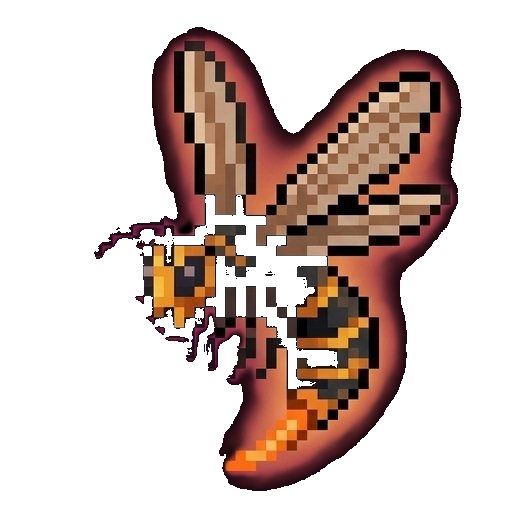
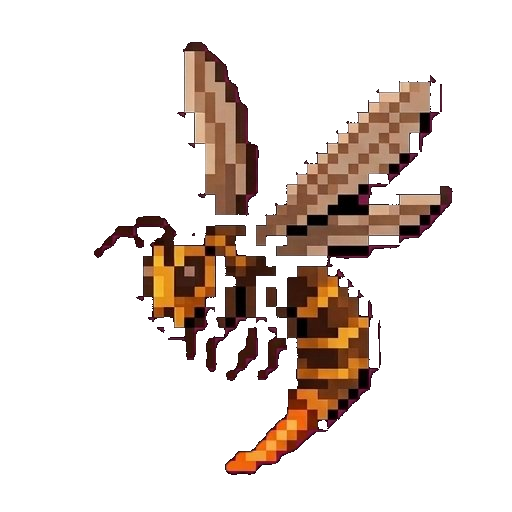
Updated the game logic, with a better Hornet movement

Changed region(s): [[0.2188, 0.0312, 0.9062, 0.9688], [0.1875, 0.4688, 0.2188, 0.5]]

diff --git a/game_output/src/entity/HornetEnemy.java b/game_output/src/entity/HornetEnemy.java
@@ -9,181 +9,166 @@ import java.awt.image.BufferedImage;
 import main.GamePanel;
 import utility.LoadImage;
 
-/**
- * A tracking hornet with:
- *  - 4 directional sprites (left/right/up/down), 12 frames each
- *  - float speed for subtle acceleration
- *  - 3 states: PATROL (circles spawn) → ALERTED (! flash) → CHASE (hunt player)
- *  - Loses interest when player escapes beyond LOSE_RANGE tiles
- */
 public class HornetEnemy extends Entity {
 
     GamePanel gp;
 
-    // ── Sprite cache (static — shared across all hornet instances) ────────
-    private static BufferedImage[] framesRight = null;
-    private static BufferedImage[] framesLeft  = null;
-    private static BufferedImage[] framesUp    = null;
-    private static BufferedImage[] framesDown  = null;
-    private static final int FRAME_COUNT = 12;
+    // ── 8-direction sprite cache (static — loaded once) ───────────────────
+    private static BufferedImage[] frRight = null;
+    private static BufferedImage[] frLeft  = null;
+    private static final int FC = 12;
 
-    // ── Float speed override (Entity.Speed is int, we shadow it) ─────────
+    // ── Float speed ───────────────────────────────────────────────────────
     private float fSpeed;
     private static final float PATROL_SPEED = 0.8f;
-    private static final float CHASE_SPEED  = 0.75f; // slightly slower than player (1.0f)  // noticeably faster than dragonfly
+    private static final float CHASE_SPEED  = 0.75f;
 
-    // ── View ranges (in tiles) ────────────────────────────────────────────
+    // ── View ranges ───────────────────────────────────────────────────────
     private static final int VIEW_TILES = 7;
     private static final int LOSE_TILES = 10;
 
     // ── States ────────────────────────────────────────────────────────────
     private enum State { PATROL, ALERTED, CHASE }
     private State state = State.PATROL;
-
-    // Alert flash timer
     private int alertTimer = 0;
-    private static final int ALERT_DURATION = 100; // frames at 200fps ≈ 0.5s
+    private static final int ALERT_DURATION = 100;
 
-    // Accumulated sub-pixel movement
+    // ── Sub-pixel accumulator for smooth float movement ───────────────────
     private float accumX = 0, accumY = 0;
 
-    // Spawn position for patrol circle
-    private final int spawnX, spawnY;
+    // ── Current 8-dir label (used for sprite selection) ───────────────────
+    private String dir8 = "right";
 
     public HornetEnemy(GamePanel gp, int tileX, int tileY) {
         this.gp     = gp;
         this.worldX = gp.tileSize * tileX;
         this.worldY = gp.tileSize * tileY;
-        this.spawnX = worldX;
-        this.spawnY = worldY;
         this.fSpeed = PATROL_SPEED;
-        this.Speed  = 1; // Entity.Speed used by collision checker
+        this.Speed  = 1;
+        this.direction = "left"; // used by collision checker
 
         solidArea = new java.awt.Rectangle(10, 10, 44, 44);
         solidAreaDefaultX = solidArea.x;
         solidAreaDefaultY = solidArea.y;
 
-        // Load frames once
-        if (framesRight == null) {
-            framesRight = new BufferedImage[FRAME_COUNT];
-            framesLeft  = new BufferedImage[FRAME_COUNT];
-            framesUp    = new BufferedImage[FRAME_COUNT];
-            framesDown  = new BufferedImage[FRAME_COUNT];
-            for (int i = 0; i < FRAME_COUNT; i++) {
-                framesRight[i] = scale(LoadImage.load("/hornet/hornet_right_" + (i+1) + ".png"));
-                framesLeft[i]  = scale(LoadImage.load("/hornet/hornet_left_"  + (i+1) + ".png"));
-                framesUp[i]    = scale(LoadImage.load("/hornet/hornet_up_"    + (i+1) + ".png"));
-                framesDown[i]  = scale(LoadImage.load("/hornet/hornet_down_"  + (i+1) + ".png"));
-            }
+        if (frRight == null) {
+            frRight = load("left");   // sprites are mirrored — swap to correct
+            frLeft  = load("right");
         }
     }
 
-    private BufferedImage scale(BufferedImage src) {
-        if (src == null) return null;
+    private BufferedImage[] load(String d) {
+        BufferedImage[] arr = new BufferedImage[FC];
         int s = gp.tileSize;
-        BufferedImage out = new BufferedImage(s, s, BufferedImage.TYPE_INT_ARGB);
-        java.awt.Graphics2D g2 = out.createGraphics();
-        g2.setRenderingHint(RenderingHints.KEY_INTERPOLATION,
-                            RenderingHints.VALUE_INTERPOLATION_BILINEAR);
-        g2.drawImage(src, 0, 0, s, s, null);
-        g2.dispose();
-        return out;
+        for (int i = 0; i < FC; i++) {
+            BufferedImage raw = LoadImage.load("/hornet/hornet_" + d + "_" + (i+1) + ".png");
+            if (raw == null) continue;
+            BufferedImage scaled = new BufferedImage(s, s, BufferedImage.TYPE_INT_ARGB);
+            java.awt.Graphics2D g2 = scaled.createGraphics();
+            g2.setRenderingHint(RenderingHints.KEY_INTERPOLATION,
+                                RenderingHints.VALUE_INTERPOLATION_BILINEAR);
+            g2.drawImage(raw, 0, 0, s, s, null);
+            g2.dispose();
+            arr[i] = scaled;
+        }
+        return arr;
+    }
+
+    // ── Direction: only left or right based on horizontal component ────────
+    private String toDir8(float dx, float dy) {
+        return dx >= 0 ? "right" : "left";
     }
 
     public void update() {
         int ts = gp.tileSize;
 
         // Player centre
-        int px = gp.player.worldX + gp.player.solidArea.x + gp.player.solidArea.width  / 2;
-        int py = gp.player.worldY + gp.player.solidArea.y + gp.player.solidArea.height / 2;
-        int ex = worldX + solidArea.x + solidArea.width  / 2;
-        int ey = worldY + solidArea.y + solidArea.height / 2;
+        float px = gp.player.worldX + gp.player.solidArea.x + gp.player.solidArea.width  / 2f;
+        float py = gp.player.worldY + gp.player.solidArea.y + gp.player.solidArea.height / 2f;
+        float ex = worldX + solidArea.x + solidArea.width  / 2f;
+        float ey = worldY + solidArea.y + solidArea.height / 2f;
 
-        double dist = Math.sqrt((px-ex)*(px-ex) + (py-ey)*(py-ey));
+        float rawDx = px - ex;
+        float rawDy = py - ey;
+        double dist = Math.sqrt(rawDx * rawDx + rawDy * rawDy);
 
-        // ── State machine ────────────────────────────────────────────────
+        // ── State machine ─────────────────────────────────────────────────
         switch (state) {
             case PATROL:
                 if (dist < VIEW_TILES * ts) {
-                    state      = State.ALERTED;
+                    state = State.ALERTED;
                     alertTimer = 0;
-                    fSpeed     = 0.3f; // slow but never fully frozen
+                    fSpeed = 0.3f;
                 }
                 break;
             case ALERTED:
-                alertTimer++;
-                if (alertTimer >= ALERT_DURATION) {
+                if (++alertTimer >= ALERT_DURATION) {
                     state  = State.CHASE;
-                    fSpeed = PATROL_SPEED; // start slow then accelerate
+                    fSpeed = 0;
                 }
                 break;
             case CHASE:
-                // Accelerate smoothly toward chase speed
-                if (fSpeed < CHASE_SPEED) fSpeed = Math.min(fSpeed + 0.02f, CHASE_SPEED); // slower ramp-up too
+                if (fSpeed < CHASE_SPEED) fSpeed = Math.min(fSpeed + 0.02f, CHASE_SPEED);
                 if (dist > LOSE_TILES * ts) {
                     state  = State.PATROL;
                     fSpeed = PATROL_SPEED;
-                    accumX = 0; accumY = 0; // clear stale float accumulator
+                    direction = "left";
                 }
                 break;
         }
 
-        // ── Movement ─────────────────────────────────────────────────────
+        // ── Movement ──────────────────────────────────────────────────────
         if (state == State.PATROL) {
-            // Collision-aware left/right patrol — never drifts into water
+            // Simple left/right patrol with collision awareness
+            direction   = direction.equals("left") ? "left" : "right";
             collisionOn = false;
             gp.collisionChecker.checkTile(this);
             if (collisionOn) {
                 direction = direction.equals("left") ? "right" : "left";
             } else {
-                worldX += direction.equals("left") ? -(int)fSpeed : (int)fSpeed;
+                worldX += direction.equals("left") ? -(int) fSpeed : (int) fSpeed;
             }
+            dir8 = direction;
 
-        } else if (state == State.CHASE) {
-            // Full 4-directional chase using float accumulator
-            float dx = px - ex;
-            float dy = py - ey;
-            float len = (float)Math.sqrt(dx*dx + dy*dy);
+        } else if (state == State.CHASE && fSpeed > 0) {
+            // True Euclidean chase — normalise vector and accumulate sub-pixels
+            float len = (float) dist;
             if (len > 0) {
-                dx /= len; dy /= len;
+                float nx = rawDx / len;
+                float ny = rawDy / len;
+
+                // Pick sprite direction from the actual movement vector
+                dir8 = toDir8(nx, ny);
+
+                accumX += nx * fSpeed;
+                accumY += ny * fSpeed;
+
+                int moveX = (int) accumX;
+                int moveY = (int) accumY;
+                accumX -= moveX;
+                accumY -= moveY;
+
+                // Move X — set cardinal direction for collision checker
+                if (moveX != 0) {
+                    direction   = moveX < 0 ? "left" : "right";
+                    collisionOn = false;
+                    gp.collisionChecker.checkTile(this);
+                    if (!collisionOn) worldX += moveX;
+                }
+                // Move Y — separate axis so diagonals slide along walls
+                if (moveY != 0) {
+                    direction   = moveY < 0 ? "up" : "down";
+                    collisionOn = false;
+                    gp.collisionChecker.checkTile(this);
+                    if (!collisionOn) worldY += moveY;
+                }
             }
-
-            accumX += dx * fSpeed;
-            accumY += dy * fSpeed;
-
-            int moveX = (int)accumX;
-            int moveY = (int)accumY;
-            accumX -= moveX;
-            accumY -= moveY;
-
-            // Update direction for sprite
-            if (Math.abs(dx) >= Math.abs(dy)) direction = dx < 0 ? "left" : "right";
-            else                               direction = dy < 0 ? "up"   : "down";
-
-            // Move X with collision
-            if (moveX != 0) {
-                direction = moveX < 0 ? "left" : "right";
-                collisionOn = false;
-                gp.collisionChecker.checkTile(this);
-                if (!collisionOn) worldX += moveX;
-            }
-            // Move Y with collision
-            if (moveY != 0) {
-                direction = moveY < 0 ? "up" : "down";
-                collisionOn = false;
-                gp.collisionChecker.checkTile(this);
-                if (!collisionOn) worldY += moveY;
-            }
-
-            // Restore dominant direction for sprite after collision checks
-            if (Math.abs(dx) >= Math.abs(dy)) direction = dx < 0 ? "left" : "right";
-            else                               direction = dy < 0 ? "up"   : "down";
         }
 
-        // ── Animate ──────────────────────────────────────────────────────
+        // ── Animate ───────────────────────────────────────────────────────
         spriteCounter++;
         if (spriteCounter > 4) {
-            spriteNum     = (spriteNum % FRAME_COUNT) + 1;
+            spriteNum     = (spriteNum % FC) + 1;
             spriteCounter = 0;
         }
     }
@@ -192,56 +177,57 @@ public class HornetEnemy extends Entity {
         int drawX = worldX - gp.camX;
         int drawY = worldY - gp.camY;
 
-        if (drawX + gp.tileSize < 0 || drawX > gp.screenWidth  ||
+        if (drawX + gp.tileSize < 0 || drawX > gp.screenWidth ||
             drawY + gp.tileSize < 0 || drawY > gp.screenHeight) return;
 
-        // ── Sprite ───────────────────────────────────────────────────────
-        BufferedImage[] frames = switch (direction) {
-            case "left"  -> framesRight;
-            case "up"    -> framesDown;
-            case "down"  -> framesUp;
-            default      -> framesLeft;
-        };
+        // Pick sprite array from 8-dir label
+        BufferedImage[] frames = dir8.equals("left") ? frLeft : frRight;
 
-        BufferedImage img = (frames != null && frames[spriteNum-1] != null)
-                ? frames[spriteNum-1] : null;
+        BufferedImage img = (frames != null && frames[spriteNum - 1] != null)
+                ? frames[spriteNum - 1] : null;
 
-        if (img != null) {
-            g2.drawImage(img, drawX, drawY, null);
-        } else {
+        if (img != null) g2.drawImage(img, drawX, drawY, null);
+        else {
             g2.setColor(Color.ORANGE);
-            g2.fillRect(drawX+4, drawY+4, gp.tileSize-8, gp.tileSize-8);
+            g2.fillRect(drawX + 4, drawY + 4, gp.tileSize - 8, gp.tileSize - 8);
         }
 
-        // ── View ring (patrol only) ───────────────────────────────────────
+        int cx = drawX + gp.tileSize / 2;
+        int cy = drawY + gp.tileSize / 2;
+
+        // ── Patrol: black view ring ───────────────────────────────────────
         if (state == State.PATROL) {
-            int cx = drawX + gp.tileSize/2;
-            int cy = drawY + gp.tileSize/2;
-            int r  = VIEW_TILES * gp.tileSize;
-            g2.setColor(new Color(255, 140, 0, 30));
-            g2.fillOval(cx-r, cy-r, r*2, r*2);
-            g2.setColor(new Color(255, 140, 0, 100));
-            g2.setStroke(new BasicStroke(1.5f));
-            g2.drawOval(cx-r, cy-r, r*2, r*2);
+            int r = VIEW_TILES * gp.tileSize;
+            g2.setColor(new Color(0, 0, 0, 40));
+            g2.fillOval(cx - r, cy - r, r * 2, r * 2);
+            g2.setColor(new Color(0, 0, 0, 140));
+            g2.setStroke(new BasicStroke(2f));
+            g2.drawOval(cx - r, cy - r, r * 2, r * 2);
             g2.setStroke(new BasicStroke(1f));
         }
 
-        // ── Alert flash ───────────────────────────────────────────────────
+        // ── Alerted: exclamation mark ─────────────────────────────────────
         if (state == State.ALERTED && (alertTimer / 10) % 2 == 0) {
-            g2.setFont(new Font("Arial", Font.BOLD, 32));
-            g2.setColor(Color.ORANGE);
-            int cx = drawX + gp.tileSize/2;
-            g2.drawString("!", cx - 8, drawY - 6);
+            g2.setFont(new Font("Arial", Font.BOLD, 34));
+            g2.setColor(Color.WHITE);
+            g2.drawString("!", cx - 6, drawY - 8);
+            g2.setColor(Color.BLACK);
+            g2.setFont(new Font("Arial", Font.BOLD, 34));
+            // thin outline for readability
+            g2.drawString("!", cx - 7, drawY - 7);
         }
 
-        // ── Chase glow ────────────────────────────────────────────────────
+        // ── Chase: pulsing semi-transparent black shrink/expand circle ────
         if (state == State.CHASE) {
-            float alpha = (float)(0.2 + 0.15 * Math.sin(System.currentTimeMillis() / 120.0));
-            int cx = drawX + gp.tileSize/2;
-            int cy = drawY + gp.tileSize/2;
-            int r  = gp.tileSize/2 + 8;
-            g2.setColor(new Color(1f, 0.5f, 0f, alpha));
-            g2.fillOval(cx-r, cy-r, r*2, r*2);
+            double pulse = Math.sin(System.currentTimeMillis() / 200.0); // -1..1
+            int baseR = gp.tileSize;
+            int r     = baseR + (int)(pulse * (gp.tileSize / 3));       // shrinks and expands
+            g2.setColor(new Color(0, 0, 0, 60));
+            g2.fillOval(cx - r, cy - r, r * 2, r * 2);
+            g2.setColor(new Color(0, 0, 0, 120));
+            g2.setStroke(new BasicStroke(1.5f));
+            g2.drawOval(cx - r, cy - r, r * 2, r * 2);
+            g2.setStroke(new BasicStroke(1f));
         }
     }
 }
